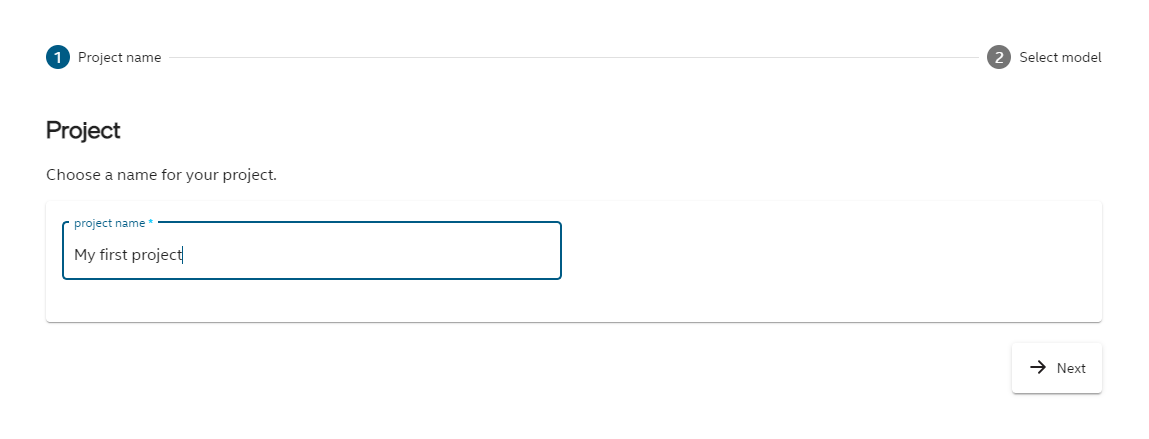
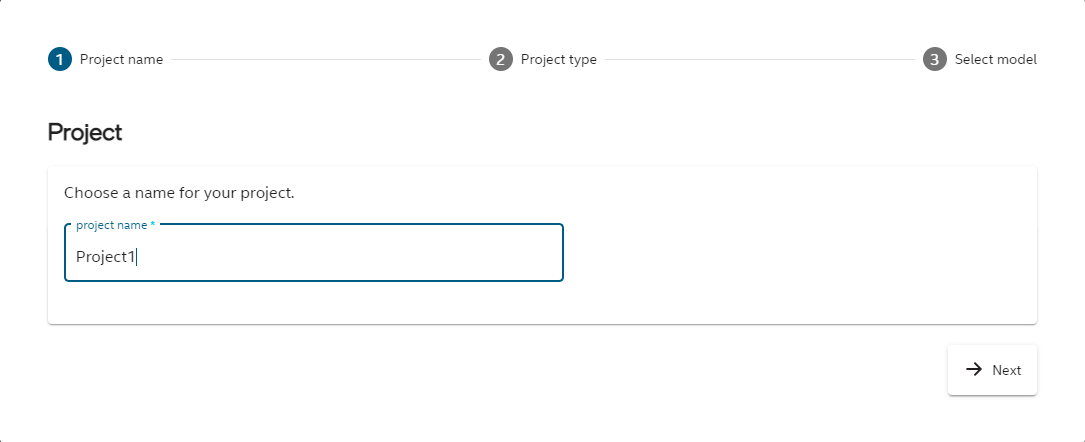
INC Bench: documentation update (#840)
* bench documentation update

diff --git a/docs/bench.md b/docs/bench.md
@@ -64,22 +64,48 @@ or specify different port that is already opened, for example 8080:
     You are forfeiting security, confidentiality and integrity of all client-server communication. Your server is exposed to external threats.
 
 ## Home screen
-This view shows introduction to Intel® Neural Compressor Bench and a button for creating new project.
+This view shows introduction to Intel® Neural Compressor Bench and a button for creating new project. After clicking this button, popup with project wizard will be shown.
 
 ![Home](imgs/bench/home.png "Home")
 
 # Create new project
-To create a new project, you need to choose its name and input model.
+To create a new project, in first step you need to choose its name.
 
 ![Project1](imgs/bench/project1.png "Project1")
 
-When the model is chosen, you can also edit its input and output nodes, see the model graph (for Tensorflow models) and set shape for synthetic dataset. It is also possible that you will have to choose model domain if it was not auto detected. It is used to set some default parameters.
+In second step there are 2 possible options to choose from: 
+* *predefined model* - you choose model from predefined examples list, you don't need to set any additional parameters,
+* *custom model* - in this scenario you can set more parameters and customize your model. 
 
 ![Project2](imgs/bench/project2.png "Project2")
 
-On the left hand side there is a panel with list of created projects. When  you click on the project name, you can see its details. "Create new project" button goes to new project wizard described in previous section.
+## Predefined model
+First you need to choose domain for the model (image recognition or object detection). For each domain there are few available models to choose from. When you click *Finish* the chosen model will be downloaded.
+
+![Project3-predefined](imgs/bench/project3-predefined.png "Project3-predefined")
+
+## Custom model
+
+First you have to choose the model path. When it is chosen, in most cases all other fields will be completed automatically. You can edit its input and output nodes, see the model graph (if it is available for this model) and set shape for synthetic dataset. If model domain was not detected, you need to choose it from the list. Model domain is used to set some default parameters for the model.
+
+![Project3-custom](imgs/bench/project3-custom.png "Project3-custom")
+
+# Project list
+On the left hand side there is a panel with list of created projects. When you click on the project name, you can see its details. "Create new project" button navigates to new project wizard popup described in previous section.
 
 ![Menu](imgs/bench/menu.png "Menu")
+
+## Remove project
+
+If you want to remove project, you have to click the trash icon next to project name (it is visible when the cursor is on the project name).
+
+![Remove1](imgs/bench/remove1.png "Remove1")
+
+Then you will be prompted to confirm your choice by typing the project name. Project removal is not reversible.
+
+![Remove2](imgs/bench/remove2.png "Remove2")
+
+# Develop the project
 
 ## Add optimization
 ### Optimization table
@@ -138,6 +164,12 @@ New dataset can be defined by clicking "Add new profiling" button at the bottom 
 ### Dataset details
 Dataset details can be inspected by clicking specific row.
 ![Dataset-details](imgs/bench/dataset-details.png "Dataset-details")
+
+### Custom dataset
+When adding the dataset, you can choose *custom* in dataloader and metric field. In that case a template file will be created. The path to the template file will be available in dataset details. You should edit this file to add your custom configuration before using this dataset in optimizations or benchmarks. Small yellow warning will remind about it. 
+
+![Custom dataset](imgs/bench/custom-dataset.png "Custom dataset")
+
 ## Project information
 
 Last tab is called "Project info". You can find here details about the project, when it was created and modified, what is the framework and some details about input model. It is also possible to add some notes about the project.
